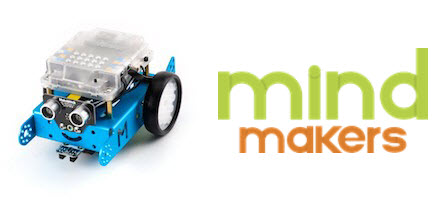
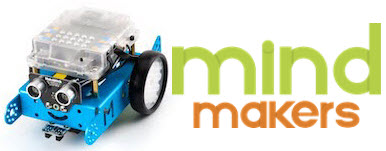
Ui changes

diff --git a/src/web/index.html b/src/web/index.html
@@ -9,9 +9,8 @@
 </head>
 <body>
   <div id="app">
-    <img :src="logo" />
     <div id="type-device-panel" style="margin-top:10px;height:160px">
-      <img :src="mbot" height="200px"/>
+      <img :src="mbot" width="330px"/>
     </div>
   </div>
 
